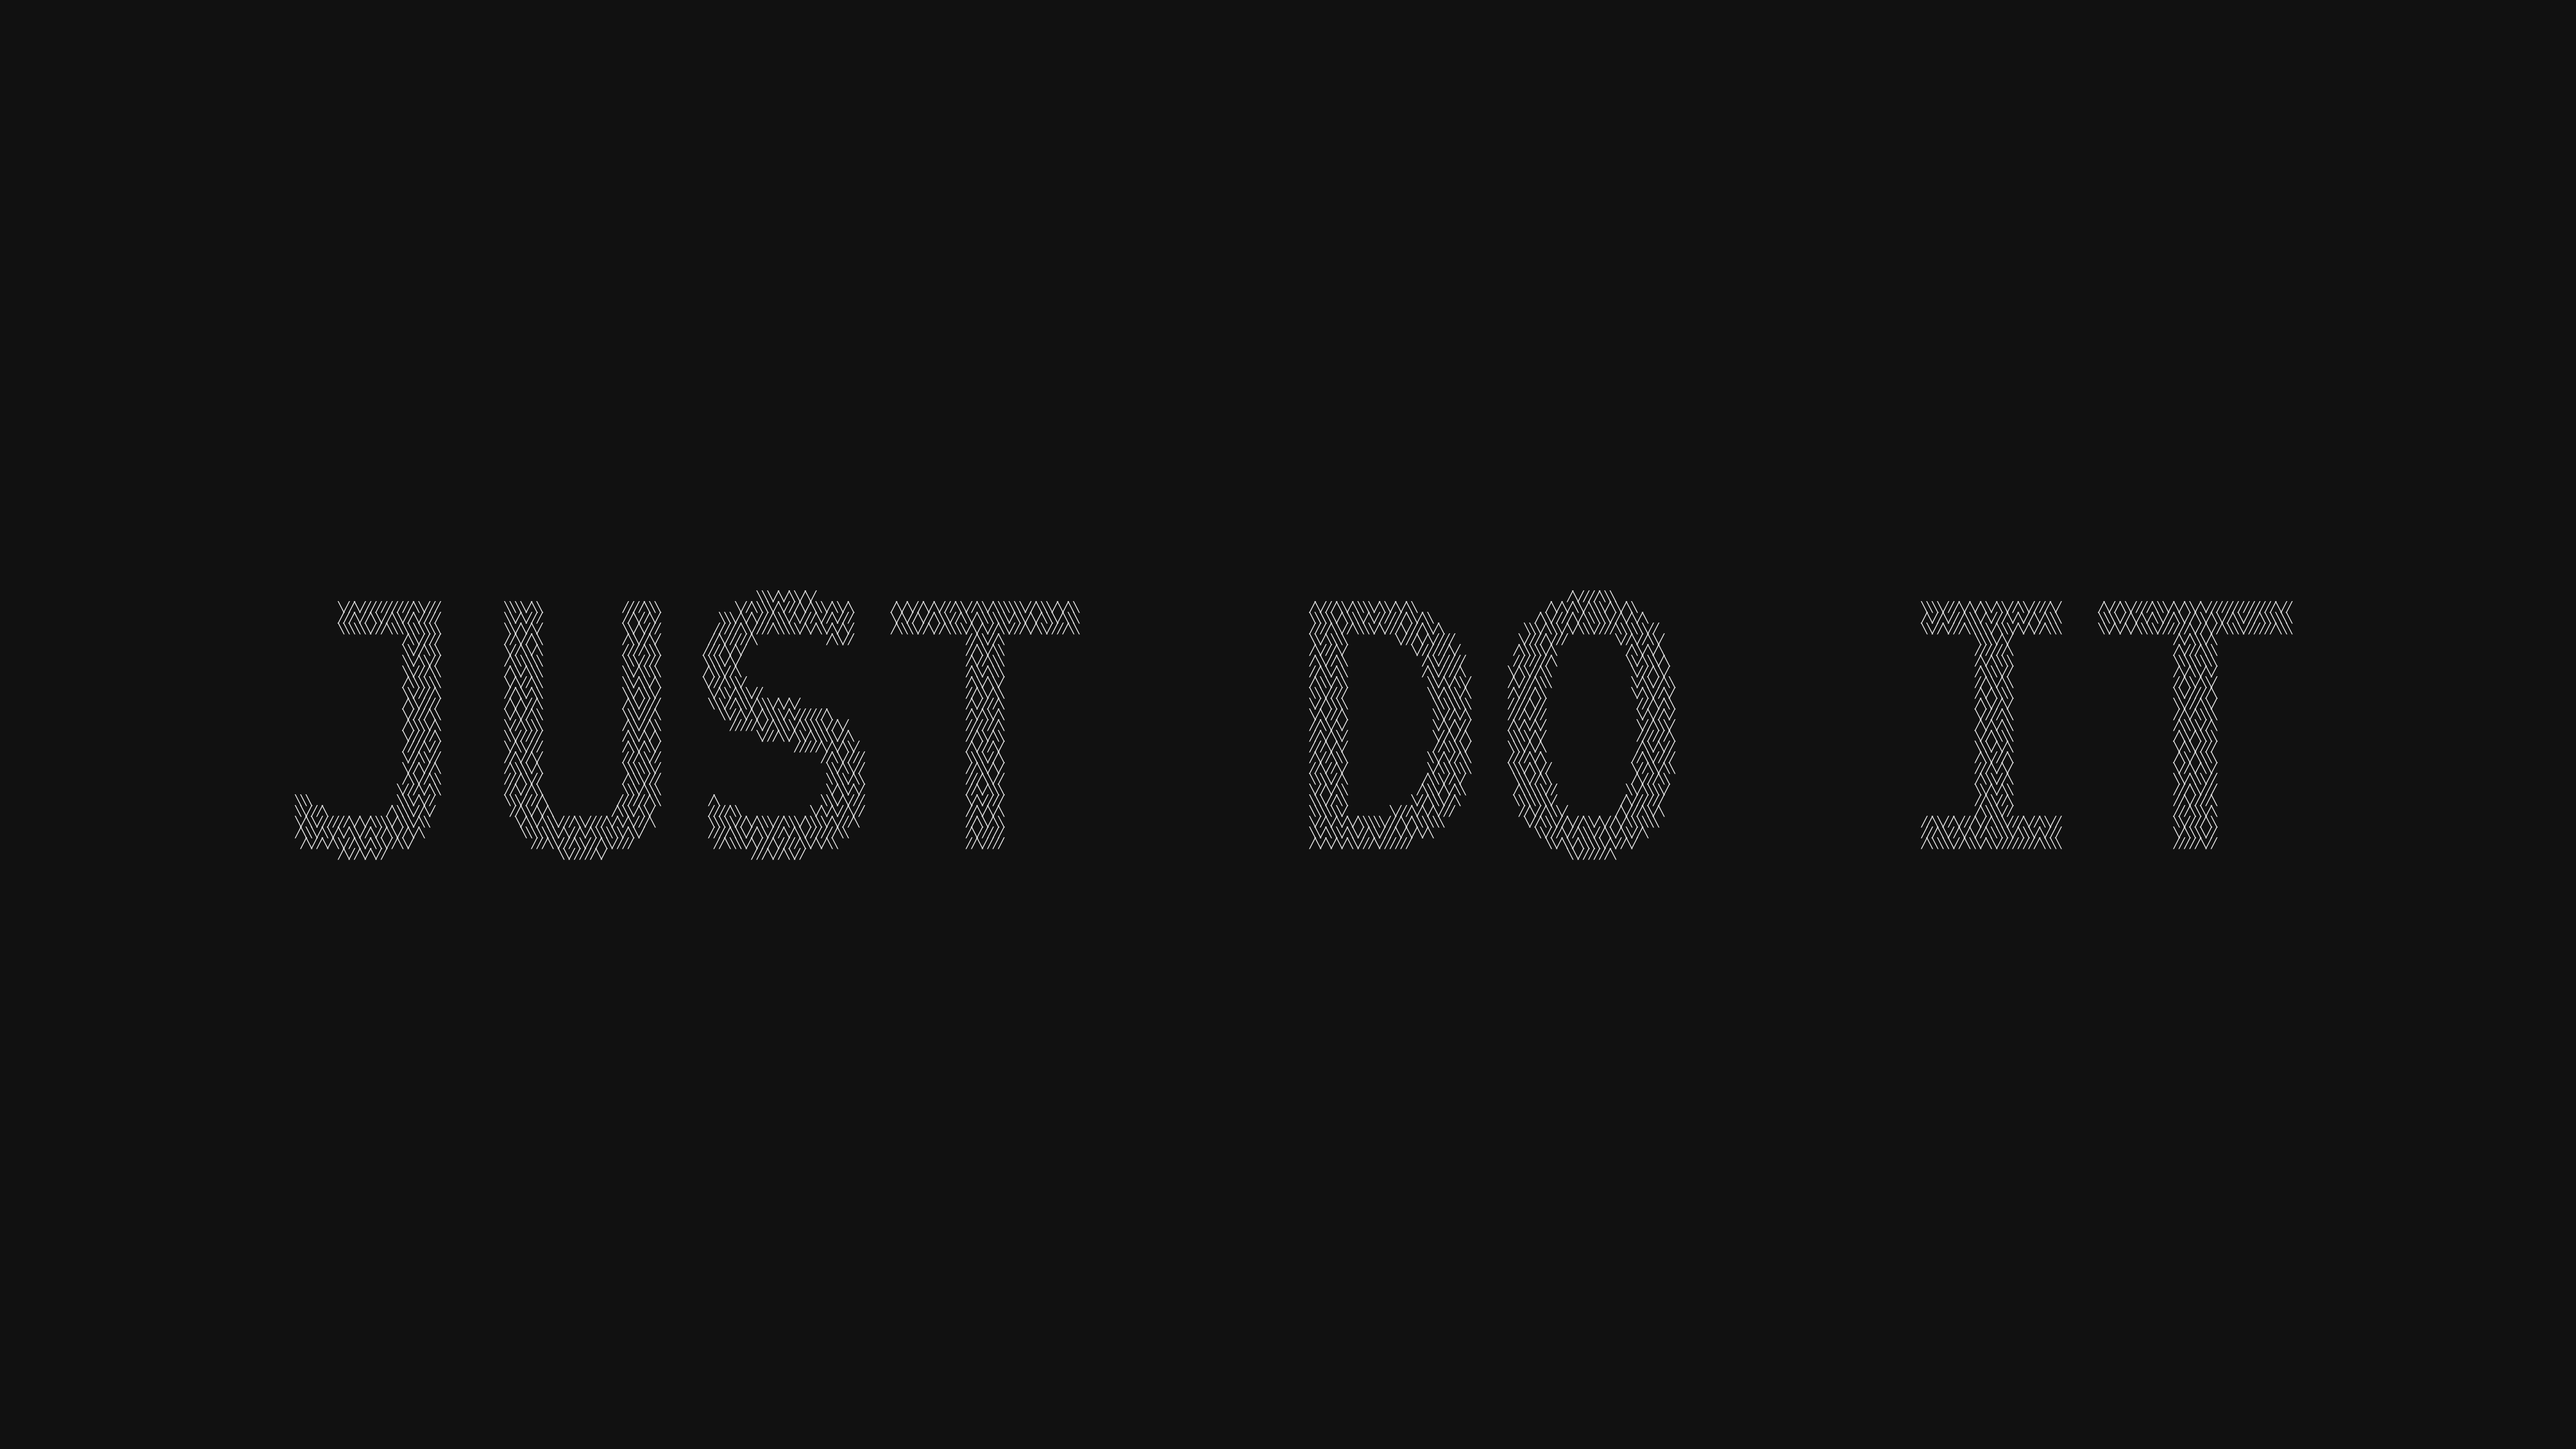
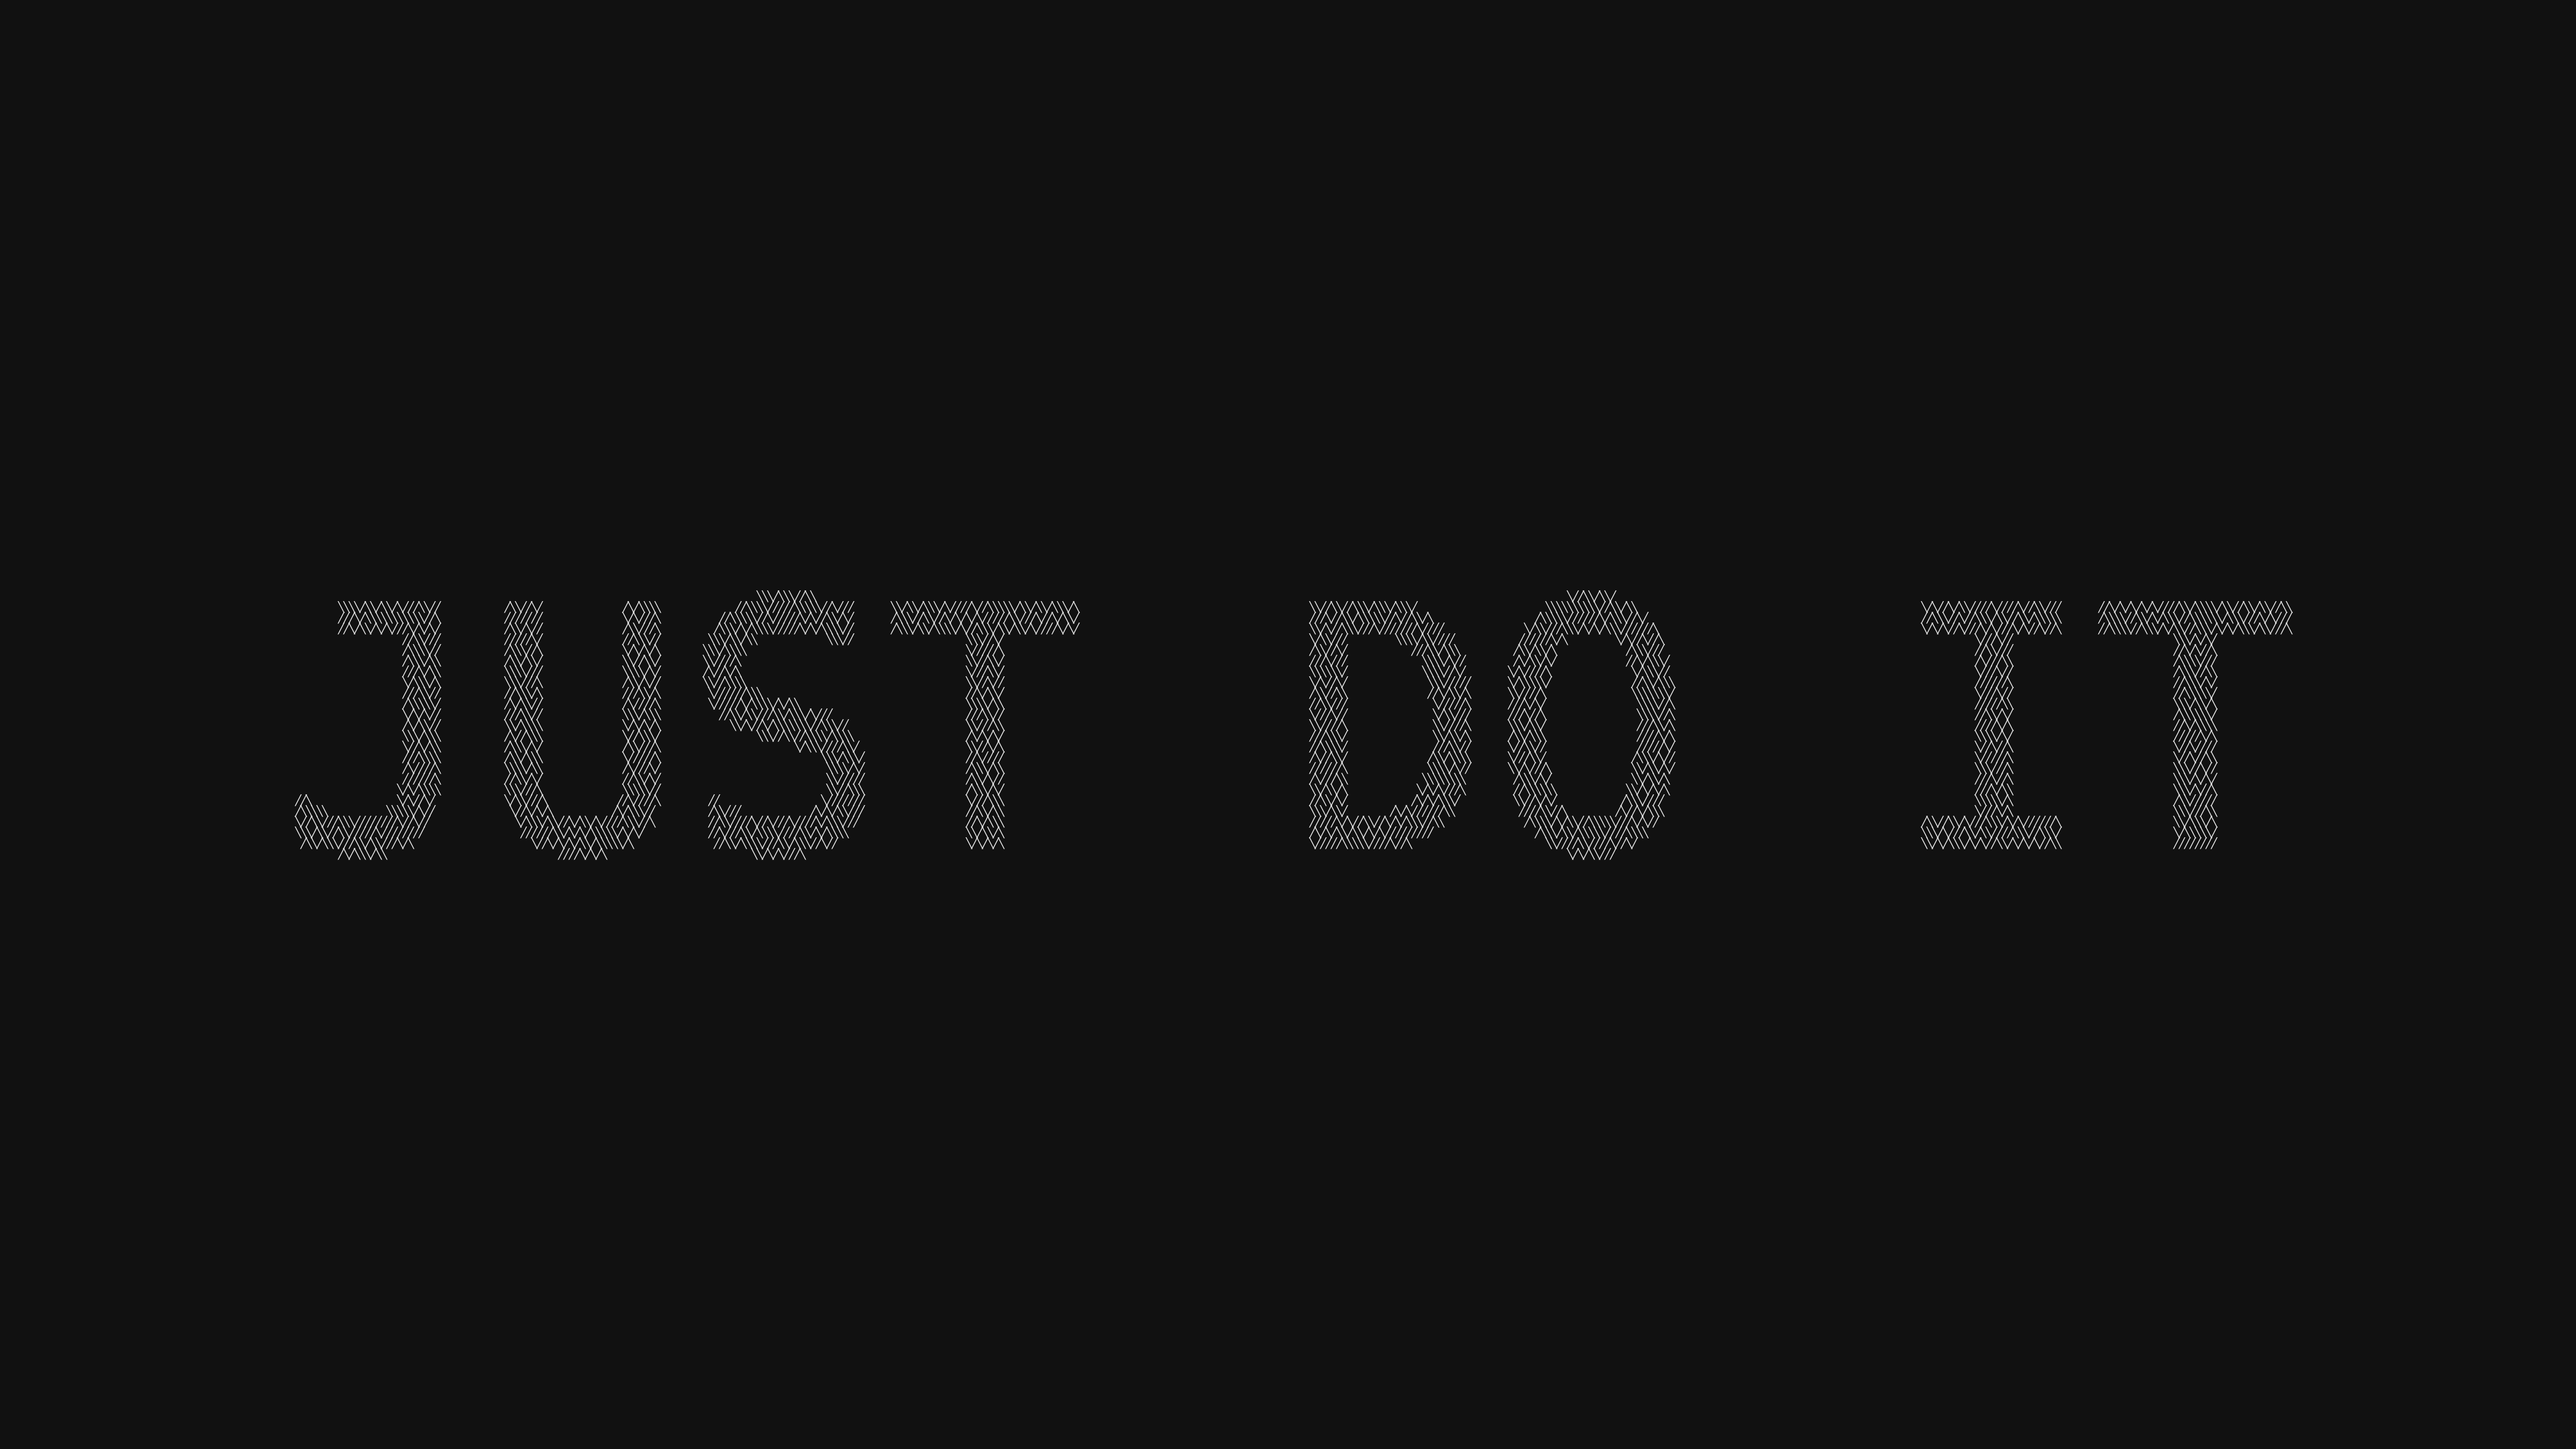
feat: SDF fill gamma curve — bold interior with thin edge ring
- sdf_fill(): add gamma param (default 1.0 for backward compat)
  gamma > 1.0 biases toward bold interior chars; gamma=4.0 = crisp edge ring
- Gallery: 3 SDF variants in 4K gallery
  - S-G09-sdf: gamma=4.0 (bold interior, thin crisp edge ring)
  - S-G09-sdf-outline: gamma=1.0 (linear/classic diffuse outline)
  - S-G09-sdf-mid: gamma=2.5 (visible gradient + readable interior)
- Brightness modulation: SDF value curved by gamma drives per-char colour
  brightness (interior=full white, edge=dim but visible, floor=0.08)
- sdf-neon variant updated to gamma=4.0 for matching crispness

diff --git a/scripts/generate_gallery.py b/scripts/generate_gallery.py
@@ -371,7 +371,31 @@ def _apply_char_fill_to_grid(
         char_rows = density_fill(mask)
     elif fill_name == "sdf":
         from justdoit.effects.fill import sdf_fill
-        char_rows = sdf_fill(mask)
+        from justdoit.core.glyph import mask_to_sdf
+        gamma = kw.pop("gamma", 4.0)  # default: bold interior
+        char_rows = sdf_fill(mask, gamma=gamma)
+        # Modulate brightness by gamma-curved SDF value so interior is full-white
+        # and edge chars are visibly dimmer — creates the crisp edge ring
+        sdf_vals = mask_to_sdf(mask)
+        fg = color if color is not None else (255, 255, 255)
+        result = []
+        for r, row_str in enumerate(char_rows):
+            new_row = []
+            for c, ch in enumerate(row_str):
+                if ch == " ":
+                    new_row.append((" ", None))
+                else:
+                    v = sdf_vals[r][c] if r < len(sdf_vals) and c < len(sdf_vals[r]) else 0.5
+                    brightness = v ** gamma  # same curve as char selection
+                    # Edge chars stay visible but dim; interior hits full white.
+                    # Floor of 0.08 keeps edge chars just barely visible.
+                    brightness = max(0.08, min(1.0, brightness))
+                    rgb = tuple(int(ch_v * brightness) for ch_v in fg)
+                    new_row.append((ch, rgb))
+            result.append(new_row)
+        if color_fn is not None:
+            result = color_fn(result)
+        return result
     elif fill_name == "shape":
         from justdoit.effects.shape_fill import shape_fill
         char_rows = shape_fill(mask)
@@ -922,13 +946,18 @@ def _curated_entries_g09(
 
     # Strategy C — char fills on G09 mask (full resolution)
     _strategy_c = [
-        ("S-G09-density", "G09+F01 — Density (hi-res)", "density"),
-        ("S-G09-sdf",     "G09+F06 — SDF (hi-res)",     "sdf"),
-        ("S-G09-shape",   "G09+F07 — Shape (hi-res)",   "shape"),
+        ("S-G09-density", "G09+F01 — Density (hi-res)", "density", {}),
+        # SDF gamma=4.0: bold solid interior, thin crisp edge ring
+        ("S-G09-sdf",         "G09+F06 — SDF bold interior",      "sdf", {"gamma": 4.0}),
+        # SDF gamma=1.0: linear gradient, classic diffuse outline effect
+        ("S-G09-sdf-outline", "G09+F06 — SDF outline (linear)",   "sdf", {"gamma": 1.0}),
+        # SDF gamma=2.5: mid-point — visible gradient + readable interior
+        ("S-G09-sdf-mid",     "G09+F06 — SDF gradient (gamma 2.5)", "sdf", {"gamma": 2.5}),
+        ("S-G09-shape",   "G09+F07 — Shape (hi-res)",   "shape",  {}),
     ]
-    for stem, label, fill_name in _strategy_c:
-        print(f"    G09 Strategy C: {fill_name} ...")
-        filled = _apply_char_fill_to_grid(base_grid, fill_name)
+    for stem, label, fill_name, fkw in _strategy_c:
+        print(f"    G09 Strategy C: {stem.split('-')[-1]} ...")
+        filled = _apply_char_fill_to_grid(base_grid, fill_name, fill_kwargs=fkw or None)
         add(stem, label, filled)
 
     # Strategy C extensions — colored char fills
@@ -940,6 +969,7 @@ def _curated_entries_g09(
     print("    G09 Strategy C: sdf-neon ...")
     add("S-G09-sdf-neon", "G09+F06 — SDF + neon",
         _apply_char_fill_to_grid(base_grid, "sdf",
+                                 fill_kwargs={"gamma": 4.0},
                                  color_fn=lambda g: _apply_gradient_color(g, grid_cols, grid_rows,
                                                                           "diagonal",
                                                                           [(0, 255, 200), (255, 0, 255)])))

diff --git a/justdoit/effects/fill.py b/justdoit/effects/fill.py
@@ -50,16 +50,26 @@ def density_fill(mask: list, density_chars: Optional[str] = None) -> list:
 
 
 # -------------------------------------------------------------------------
-def sdf_fill(mask: list, density_chars: Optional[str] = None) -> list:
+def sdf_fill(
+    mask: list,
+    density_chars: Optional[str] = None,
+    gamma: float = 1.0,
+) -> list:
     """Fill using signed distance field — natural outline and shading effect.
 
     Computes the SDF of the mask (edge ≈ 0.5, interior → 1.0, exterior → 0.0),
-    then applies density_fill. Creates a shaded/outlined look with heavier
-    characters toward glyph centers and lighter characters at edges.
+    applies an optional gamma curve, then applies density_fill.
+
+    gamma > 1.0 biases the gradient toward the interior (more full-density chars
+    in the centre, sharper falloff at edges). gamma=2.5-3.0 gives a bold interior
+    with a narrow edge ring. gamma=1.0 is linear (default, existing behaviour).
 
     :param mask: 2D list of floats from glyph_to_mask() — values 0.0–1.0.
     :param density_chars: Darkest-to-lightest char sequence (default: DENSITY_CHARS).
+    :param gamma: Curve exponent applied to SDF values before density mapping.
     :returns: List of strings — one per row, same shape as input mask.
     """
     sdf = mask_to_sdf(mask)
+    if gamma != 1.0:
+        sdf = [[v ** gamma for v in row] for row in sdf]
     return density_fill(sdf, density_chars)

diff --git a/docs/gallery-4k/README.md b/docs/gallery-4k/README.md
@@ -77,7 +77,11 @@
 <td align="center"><img src="S-G09-plasma.png" width="780"><br><sub><b>G09 — Plasma</b></sub></td>
 </tr>
 <tr>
+<td align="center"><img src="S-G09-sdf-mid.png" width="780"><br><sub><b>G09 — Sdf Mid</b></sub></td>
 <td align="center"><img src="S-G09-sdf-neon.png" width="780"><br><sub><b>G09 — Sdf Neon</b></sub></td>
+</tr>
+<tr>
+<td align="center"><img src="S-G09-sdf-outline.png" width="780"><br><sub><b>G09 — Sdf Outline</b></sub></td>
 <td align="center"><img src="S-G09-sdf.png" width="780"><br><sub><b>G09 — Sdf</b></sub></td>
 </tr>
 <tr>
